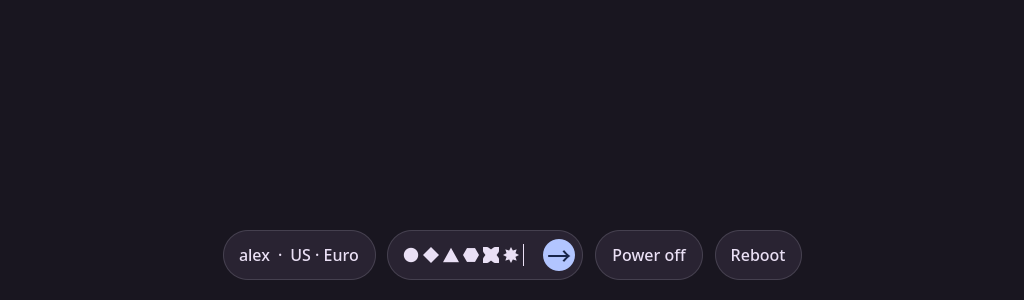
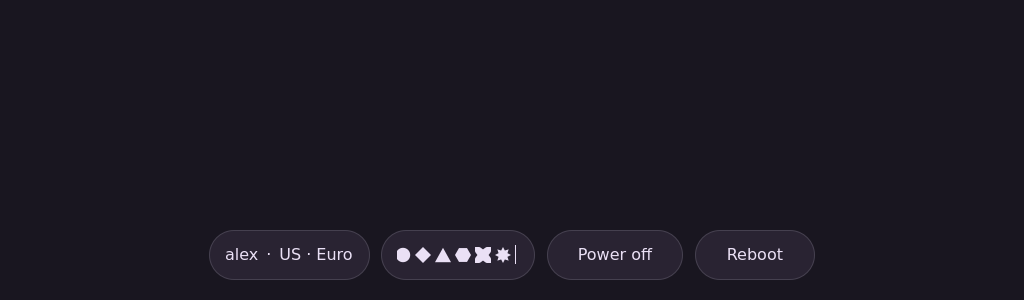
Fix once again the lock screen

diff --git a/tests/desktop/qml/tst_lockcontrols.qml b/tests/desktop/qml/tst_lockcontrols.qml
@@ -68,8 +68,9 @@ Rectangle {
             compare(mask().count, 0);
             controls.busy = true;
             keyClick(Qt.Key_Return);
-            mouseClick(findChild(controls, "lock-submit"));
+            controls.submit();
             compare(submission.count, 1);
+            compare(findChild(controls, "lock-submit"), null);
             controls.busy = false;
             tryCompare(input(), "activeFocus", true);
         }
@@ -93,29 +94,70 @@ Rectangle {
             compare(label.progress, 1);
             compare(label.currentText, "US");
         }
-        function test_pills_resize_with_text_and_font_and_keep_padding() {
+        function test_identity_fits_layout_and_font_and_keeps_padding() {
             const identity = findChild(controls, "lock-identity");
-            const button = findChild(controls, "lock-reboot");
             const initialIdentity = identity.width;
             controls.layout = "A longer keyboard layout";
             tryVerify(() => identity.width > initialIdentity);
-            const initialButton = button.width;
-            controls.rebootLabel = "Confirm restart";
-            tryVerify(() => button.width > initialButton);
-            const caption = findChild(button, "lock-power-caption");
-            verify(button.width >= caption.implicitWidth + 32);
-            const beforeFont = button.width;
+            const beforeFont = identity.width;
             controls.fontSize = 20;
-            tryVerify(() => button.width > beforeFont);
-            verify(button.height >= caption.implicitHeight + 20);
+            tryVerify(() => identity.width > beforeFont);
+            const button = findChild(controls, "lock-reboot");
+            const caption = findChild(button, "lock-power-caption");
+            verify(button.height >= caption.implicitHeight + 20,
+                   "Pill height " + button.height + " lacks padding for text height " + caption.implicitHeight);
+        }
+        function test_password_width_is_fifteen_percent_and_stays_fixed_data() {
+            return [
+                { tag: "narrow", width: 320 },
+                { tag: "standard", width: 1024 },
+                { tag: "full-hd", width: 1920 },
+                { tag: "ultra-hd", width: 3840 }
+            ];
+        }
+        function test_password_width_is_fifteen_percent_and_stays_fixed(data) {
+            fixture.width = data.width;
             const password = findChild(controls, "lock-password-pill");
-            controls.prompt = "Enter your authentication response";
             waitForRendering(controls);
-            const promptWidth = password.width;
-            controls.prompt = "Password";
-            tryVerify(() => password.width < promptWidth);
-            input().text = "01234567890123456789";
-            tryVerify(() => password.width >= mask().implicitWidth + 80);
+            const height = password.height;
+            for (const prompt of ["Password", "Enter your authentication response"]) {
+                controls.prompt = prompt;
+                waitForRendering(controls);
+                compare(password.width, data.width * 0.15);
+                compare(password.height, height);
+            }
+            input().text = "0123456789".repeat(10);
+            waitForRendering(controls);
+            compare(password.width, data.width * 0.15);
+            compare(password.height, height);
+            verify(mask().x < 0);
+            verify(mask().parent.clip);
+            compare(mask().parent.width, password.width - 32);
+            controls.clearPassword();
+            controls.busy = true;
+            waitForRendering(controls);
+            compare(password.width, data.width * 0.15);
+            compare(password.height, height);
+        }
+        function test_power_pills_keep_size_and_position_during_confirmation() {
+            const poweroff = findChild(controls, "lock-poweroff");
+            const reboot = findChild(controls, "lock-reboot");
+            const positions = [poweroff.x, poweroff.y, reboot.x, reboot.y];
+            const height = poweroff.height;
+            for (const labels of [["Confirm", "Cancel"], ["Cancel", "Confirm"], ["Power off", "Reboot"]]) {
+                controls.poweroffLabel = labels[0];
+                controls.rebootLabel = labels[1];
+                waitForRendering(controls);
+                compare(poweroff.width, 136);
+                compare(reboot.width, 120);
+                compare(poweroff.height, height);
+                compare(reboot.height, height);
+                compare([poweroff.x, poweroff.y, reboot.x, reboot.y], positions);
+                for (const button of [poweroff, reboot]) {
+                    const caption = findChild(button, "lock-power-caption");
+                    verify(button.width >= caption.implicitWidth + 32);
+                }
+            }
         }
         function test_confirmation_clicks_keep_password_focus() {
             const button = findChild(controls, "lock-poweroff");

diff --git a/roles/desktop/files/lock/LockControls.qml b/roles/desktop/files/lock/LockControls.qml
@@ -18,9 +18,8 @@ FocusScope {
     property color surface: "#292332"
     property color ink: "#eae0f5"
     property color outline: "#45404f"
-    property color accent: "#b2c5ff"
-    property color accentText: "#18254b"
     readonly property real maximumPillWidth: Math.max(1, width - 32)
+    readonly property real pillHeight: Math.max(50, Math.ceil(labelMetrics.height) + 20)
     implicitHeight: toolbar.height + (notice.visible ? notice.implicitHeight + 12 : 0)
     signal submitted(string response)
     signal powerPressed(string action)
@@ -37,6 +36,11 @@ FocusScope {
     Component.onCompleted: focusPassword()
     onBusyChanged: if (!busy) focusPassword()
 
+    FontMetrics {
+        id: labelMetrics
+        font.family: controls.uiFont
+        font.pointSize: controls.fontSize
+    }
     Text {
         id: notice
         anchors.horizontalCenter: parent.horizontalCenter
@@ -109,8 +113,8 @@ FocusScope {
         Rectangle {
             id: password
             objectName: "lock-password-pill"
-            width: Math.min(480, controls.maximumPillWidth, Math.max(180, (input.length ? mask.implicitWidth : placeholder.implicitWidth) + 80))
-            height: Math.max(50, placeholder.implicitHeight + 20)
+            width: Math.min(controls.maximumPillWidth, controls.width * 0.15)
+            height: controls.pillHeight
             radius: height / 2
             color: controls.surface
             border.color: controls.outline
@@ -119,8 +123,8 @@ FocusScope {
                 id: inputArea
                 anchors.left: parent.left
                 anchors.leftMargin: 16
-                anchors.right: submitButton.left
-                anchors.rightMargin: 12
+                anchors.right: parent.right
+                anchors.rightMargin: 16
                 anchors.verticalCenter: parent.verticalCenter
                 height: Math.max(mask.height, placeholder.implicitHeight)
                 clip: true
@@ -174,34 +178,14 @@ FocusScope {
                     color: controls.ink
                 }
             }
-            Button {
-                id: submitButton
-                objectName: "lock-submit"
-                anchors.right: parent.right
-                anchors.rightMargin: 8
-                anchors.verticalCenter: parent.verticalCenter
-                width: 32
-                height: 32
-                enabled: !controls.busy
-                focusPolicy: Qt.NoFocus
-                Accessible.name: "Unlock"
-                onClicked: controls.submit()
-                background: Rectangle { radius: height / 2; color: controls.accent }
-                contentItem: Text {
-                    text: "→"
-                    color: controls.accentText
-                    font.pixelSize: 24
-                    horizontalAlignment: Text.AlignHCenter
-                    verticalAlignment: Text.AlignVCenter
-                }
-            }
         }
         component PowerButton: Button {
             id: button
             property string powerAction: ""
+            property real pillWidth: 136
             width: Math.min(controls.maximumPillWidth, implicitWidth)
-            implicitWidth: contentItem.implicitWidth + 32
-            implicitHeight: Math.max(50, contentItem.implicitHeight + 20)
+            implicitWidth: pillWidth
+            implicitHeight: controls.pillHeight
             leftPadding: 16
             rightPadding: 16
             topPadding: 10
@@ -227,6 +211,6 @@ FocusScope {
             }
         }
         PowerButton { id: poweroff; objectName: "lock-poweroff"; powerAction: "poweroff"; text: controls.poweroffLabel }
-        PowerButton { id: reboot; objectName: "lock-reboot"; powerAction: "reboot"; text: controls.rebootLabel }
+        PowerButton { id: reboot; objectName: "lock-reboot"; powerAction: "reboot"; pillWidth: 120; text: controls.rebootLabel }
     }
 }

diff --git a/tests/desktop/clock/tst_lockscreen.qml b/tests/desktop/clock/tst_lockscreen.qml
@@ -1,0 +1,55 @@
+import QtQuick
+import QtTest
+import "../../../roles/desktop/files/lock"
+
+Rectangle {
+    width: 1024
+    height: 768
+    LockScreen {
+        id: screen
+        anchors.fill: parent
+    }
+    TestCase {
+        name: "LockClock"
+        when: windowShown
+        property string server: "http://127.0.0.1:0"
+
+        function verifyFrame(clock, color) {
+            const frame = grabImage(clock);
+            const x = Math.floor(frame.width / 2);
+            const y = Math.floor(frame.height / 2);
+            compare(frame.alpha(x, y), 255);
+            compare(frame.red(x, y), color[0]);
+            compare(frame.green(x, y), color[1]);
+            compare(frame.blue(x, y), color[2]);
+        }
+        function test_clock_keeps_previous_frame_visible_while_loading() {
+            const clock = findChild(screen, "lock-clock");
+            const input = findChild(screen, "lock-password");
+            const colors = [[255, 0, 0], [0, 255, 0], [0, 0, 255]];
+            clock.source = server + "/frame-0.png";
+            tryCompare(clock, "status", Image.Ready);
+            verify(waitForRendering(clock));
+            verifyFrame(clock, colors[0]);
+
+            for (let revision = 1; revision < colors.length; revision++) {
+                // The local fixture delays replacement frames so Loading spans
+                // several rendered frames, independently of disk/decode speed.
+                clock.source = server + "/frame-" + revision + ".png";
+                compare(clock.status, Image.Loading);
+                screen.controls.focusPassword();
+                keyClick(Qt.Key_A);
+                compare(input.text.length, revision);
+                for (let sample = 0; sample < 3; sample++) {
+                    compare(clock.status, Image.Loading);
+                    verifyFrame(clock, colors[revision - 1]);
+                    compare(clock.status, Image.Loading);
+                    wait(30);
+                }
+                tryCompare(clock, "status", Image.Ready);
+                verify(waitForRendering(clock));
+                verifyFrame(clock, colors[revision]);
+            }
+        }
+    }
+}

diff --git a/roles/desktop/files/lock/LockScreen.qml b/roles/desktop/files/lock/LockScreen.qml
@@ -19,12 +19,14 @@ FocusScope {
     Rectangle { anchors.fill: parent; color: "#26071120" }
     MouseArea { anchors.fill: parent; onClicked: controls.focusPassword() }
     Image {
+        objectName: "lock-clock"
         anchors.centerIn: parent
         width: Math.min(250, screen.width * 0.4, screen.height * 0.45)
         height: width * 260 / 250
         source: screen.profile ? "file://" + screen.profile + "/theme/lock-clock.png?revision=" + screen.clockRevision : ""
         cache: false
         asynchronous: true
+        retainWhileLoading: true
     }
     Text {
         id: lockedLabel

diff --git a/roles/desktop/files/lock/shell.qml b/roles/desktop/files/lock/shell.qml
@@ -114,8 +114,6 @@ ShellRoot {
                 controls.surface: root.palette.raised || "#292332"
                 controls.ink: root.palette.ink || "#eae0f5"
                 controls.outline: root.palette.outline || "#45404f"
-                controls.accent: root.palette.accent || "#b2c5ff"
-                controls.accentText: root.palette.onAccent || "#18254b"
                 controls.busy: auth.busy
                 controls.message: auth.message
                 controls.prompt: auth.prompt

diff --git a/tests/desktop/test_desktop.py b/tests/desktop/test_desktop.py
@@ -568,6 +568,49 @@ else:
                                 env=environment, capture_output=True, text=True, timeout=45)
         self.assertEqual(result.returncode, 0, result.stdout + result.stderr)
 
+    def test_animated_lock_clock_keeps_last_frame_visible_during_reload(self):
+        from http.server import BaseHTTPRequestHandler, ThreadingHTTPServer
+        from io import BytesIO
+        import threading
+        from PIL import Image
+        executable = Path('/usr/lib/qt6/bin/qmltestrunner')
+        if not executable.is_file(): self.skipTest('Qt 6 qmltestrunner is required')
+        frames = {}
+        for index, color in enumerate(['red', 'lime', 'blue']):
+            output = BytesIO()
+            Image.new('RGBA', (750, 780), color).save(output, format='PNG')
+            frames[f'/frame-{index}.png'] = output.getvalue()
+
+        class ClockFrames(BaseHTTPRequestHandler):
+            def do_GET(self):
+                if self.path != '/frame-0.png': time.sleep(0.5)
+                self.send_response(200)
+                self.send_header('Content-Type', 'image/png')
+                self.end_headers()
+                try: self.wfile.write(frames[self.path])
+                except BrokenPipeError: pass  # Qt may exit early after a failed assertion.
+
+            def log_message(self, *args): pass
+
+        with ThreadingHTTPServer(('127.0.0.1', 0), ClockFrames) as server:
+            worker = threading.Thread(target=server.serve_forever, daemon=True)
+            worker.start()
+            try:
+                fixture = self.profile / 'clock-validation'
+                fixture.mkdir()
+                source = (Path(__file__).parent / 'clock/tst_lockscreen.qml').read_text()
+                source = source.replace('"../../../roles/desktop/files/lock"', '"../lock"')
+                source = source.replace('http://127.0.0.1:0', f'http://127.0.0.1:{server.server_port}')
+                (fixture / 'tst_lockscreen.qml').write_text(source)
+                environment = dict(os.environ, QT_QPA_PLATFORM='offscreen', QT_QUICK_BACKEND='software',
+                                   QT_QUICK_CONTROLS_STYLE='Basic', XDG_RUNTIME_DIR=str(self.profile / '.runtime-validation'))
+                result = subprocess.run([executable, '-input', str(fixture), '-o', '-,txt'],
+                                        env=environment, capture_output=True, text=True, timeout=15)
+                self.assertEqual(result.returncode, 0, result.stdout + result.stderr)
+            finally:
+                server.shutdown()
+                worker.join(timeout=5)
+
     def test_quickshell_pam_with_isolated_policies_and_dummy_response(self):
         executable = shutil.which('qs')
         if executable is None: self.skipTest('Quickshell is required')

diff --git a/docs/hyprland-desktop.md b/docs/hyprland-desktop.md
@@ -105,8 +105,9 @@ The lock screen uses the supplied sunset/anime wallpaper independently of the
 desktop wallpaper. Its blue scalloped clock has dot markers, stacked hour/minute
 digits, an outlined hour hand, a pink minute hand, a thin second hand, and separate
 day/month badges. A background helper updates it once a second and caches font
-lookups. Quickshell reloads that image asynchronously once per second;
-password input never waits for image generation.
+lookups. Quickshell reloads that image asynchronously once per second and keeps
+the current frame visible until its replacement is ready. Password input never
+waits for image generation.
 Super+L starts the locker using cached visuals, with fresh images generated
 afterward. The configured background color covers the screen while wallpaper
 resources load. The independent Quickshell process uses
@@ -134,10 +135,13 @@ and clickable, text-only **Power off** and **Reboot** buttons. Layouts such as U
 Euro and US AltGr use short names. Password feedback uses randomly selected circles,
 diamonds, triangles, hexagons, clovers and stars. Shapes depend only on the number
 of characters and fresh randomness; existing shapes stay stable while editing.
-The identity, password and power pills fit their current content, with 16 pixels
-of horizontal padding and at least 10 pixels vertically. Long passwords scroll
-within the field; the toolbar wraps on narrow screens. Caps Lock and battery
-status remain visible. The toolbar is centered, 20 pixels above the bottom edge;
+The identity pill fits its current content. The password pill stays at 15% of
+each screen's width; press Enter to submit, with no separate submit button.
+Power off and Reboot stay 136 and 120 pixels wide, including their Confirm/Cancel
+states. The pills keep 16 pixels of horizontal padding and at least 10 pixels
+vertically. Long passwords scroll within the field; the toolbar wraps on narrow
+screens. Caps Lock and battery status remain visible. The toolbar is centered,
+20 pixels above the bottom edge;
 the clock occupies the screen's center. Both the lock screen and session menu
 use `archsetup_desktop_control_font_size` for ordinary text (12 points by default,
 equivalent to 16 pixels at 96 dpi). Labels, status, layout names, password prompts

diff --git a/docs/desktop-validation.md b/docs/desktop-validation.md
@@ -1,5 +1,26 @@
 # Desktop validation — 2026-10-10
 
+## Clock reloads and fixed lock pills — 2026-10-14
+
+The animated clock retains its current frame until the next asynchronous image
+load completes. The password pill stays at 15% of each screen's width regardless
+of prompt, password length or authentication progress. Power off/Reboot remain
+136/120 pixels wide through Confirm/Cancel states, with stable heights and
+positions. Removed the password submit button; keyboard Enter still submits.
+
+All 58 desktop regressions pass. The clock rendering fixture delays replacement
+images, samples the displayed frame during loading, checks the new frame after
+completion and verifies typing remains responsive. Disabling frame retention
+reproduces a missing clock frame that the fixture detects. Control checks cover
+320/1024/1920/3840-pixel widths, long passwords, confirmation/cancellation,
+padding and keyboard submission. Component/test lint and whitespace checks pass;
+the refreshed [control preview](images/desktop-lock-controls.png) was visually
+inspected.
+
+Rendering checks use the offscreen software backend. A full Wayland lock/unlock
+cycle and workstation deployment were not performed. Reapply the desktop profile
+and start a new lock session to load the changes.
+
 ## Password shapes, scrolling layouts and fitted lock pills — 2026-10-14
 
 The animated lock screen uses an independent Quickshell Wayland session lock,
